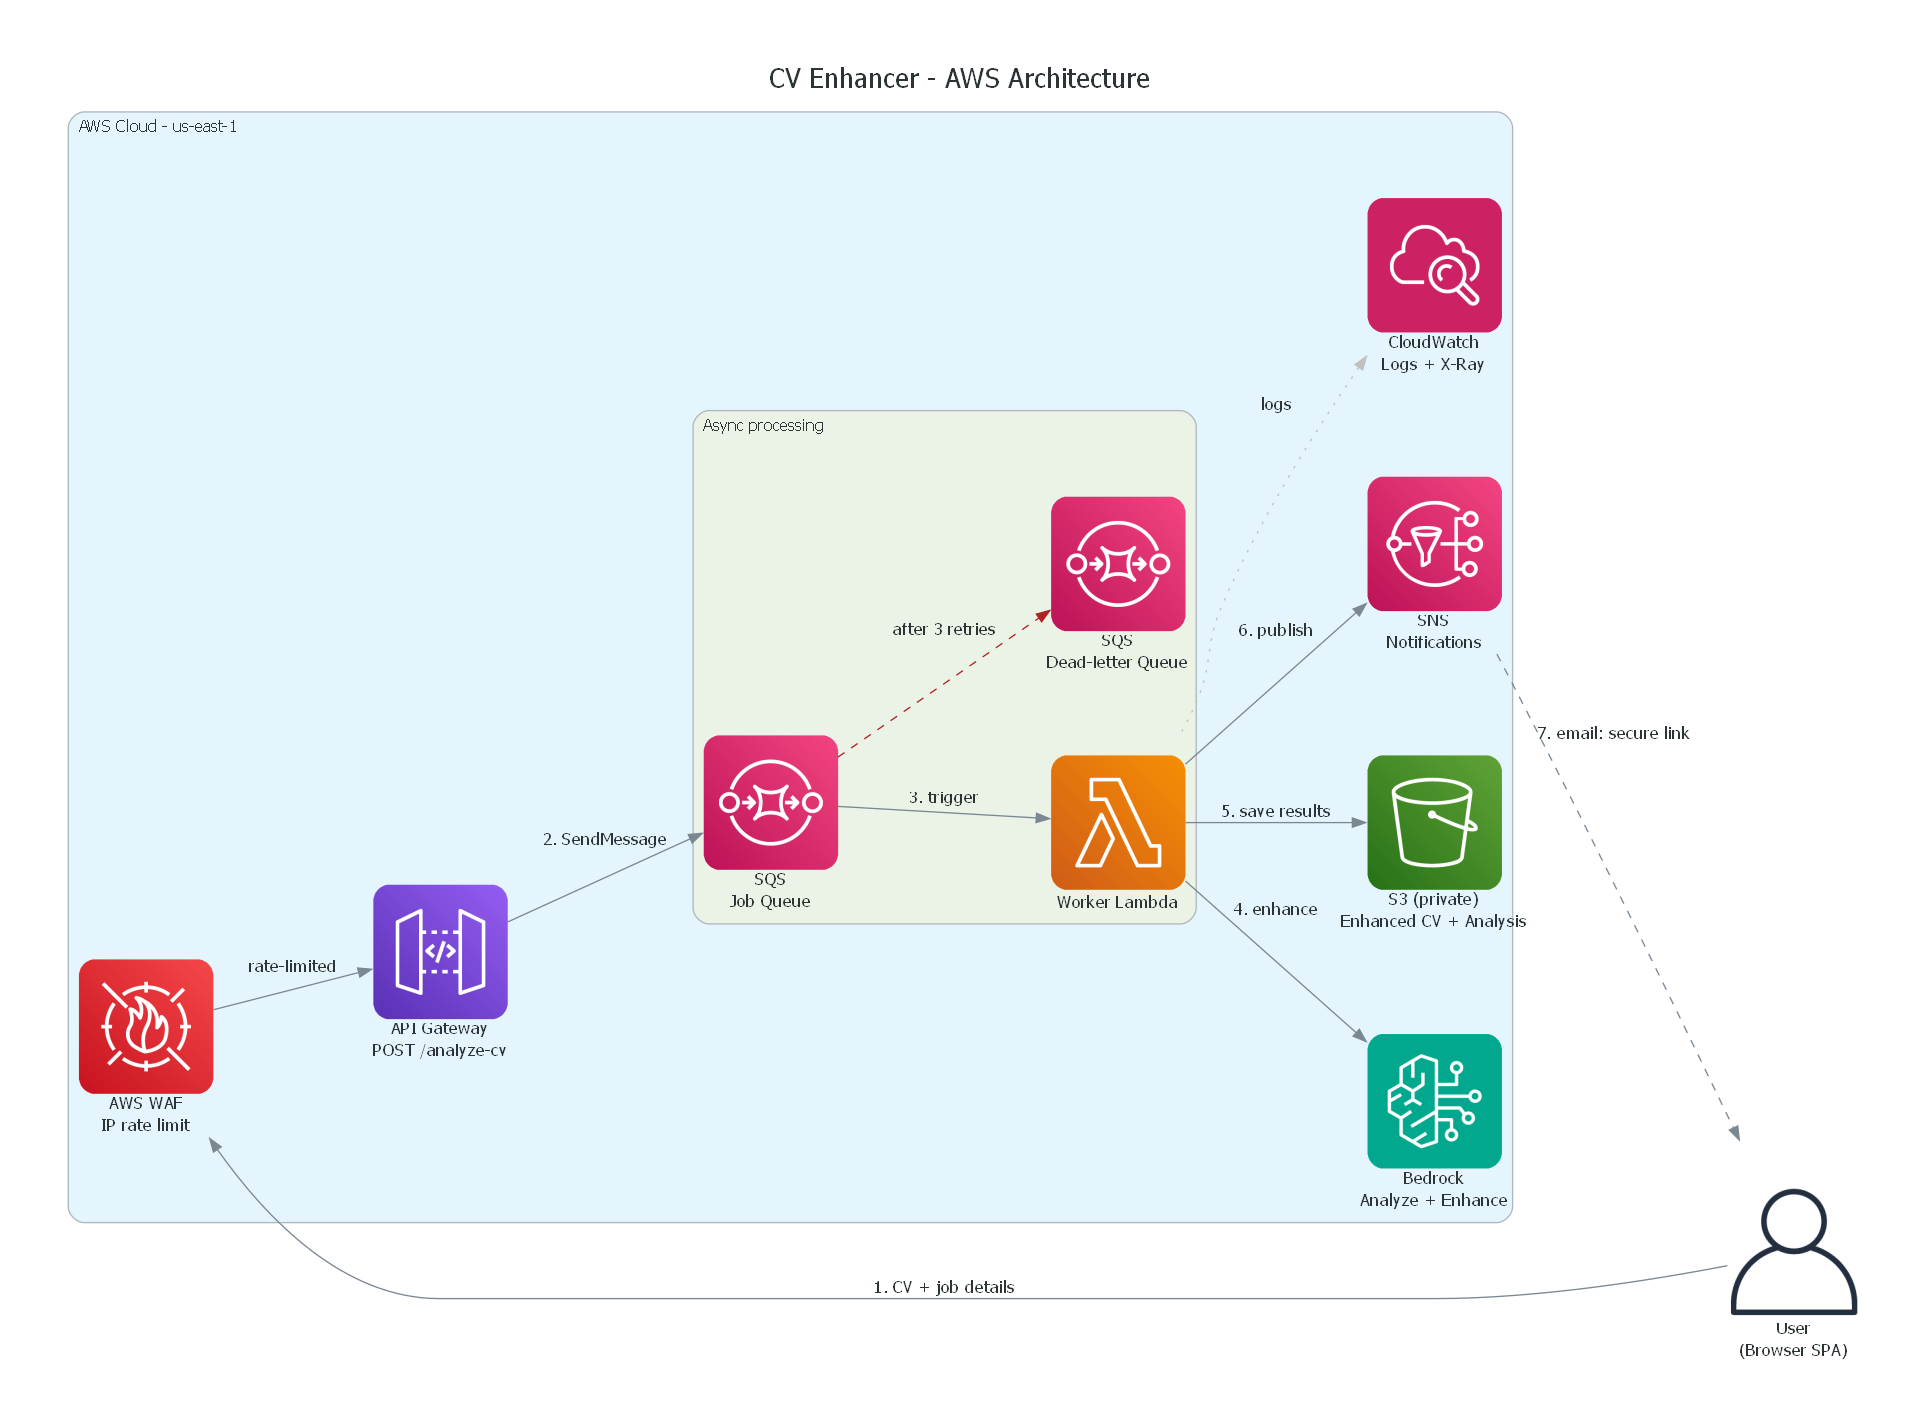
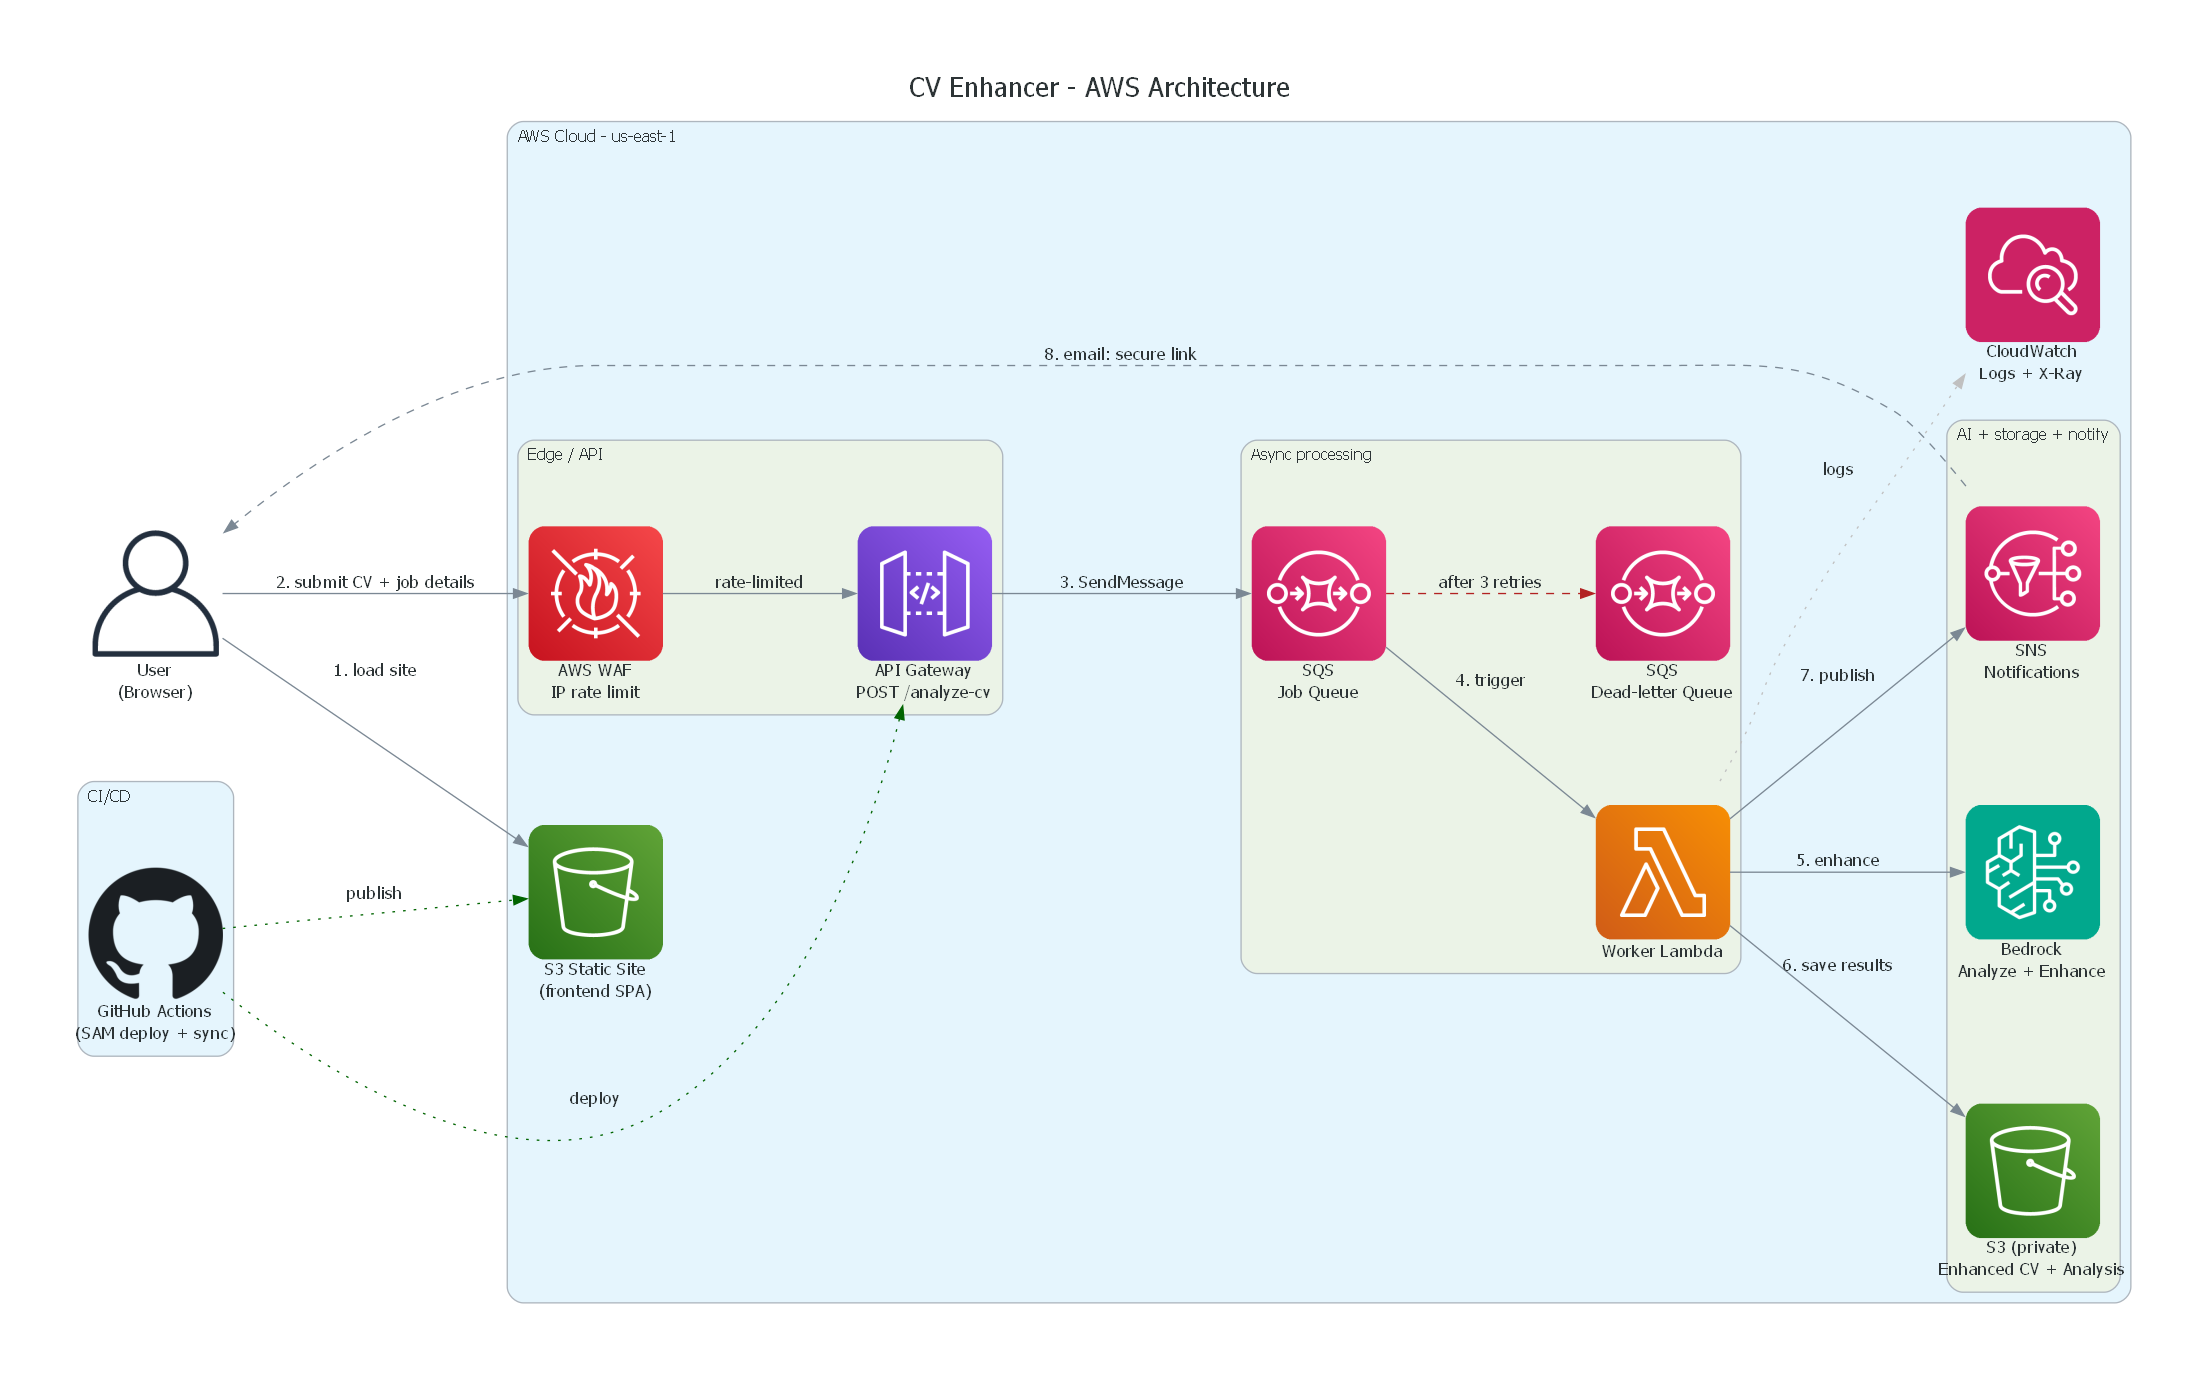
Enhance architecture diagram: add frontend S3 site, CI/CD, and grouped clusters

diff --git a/diagram/architecture.py b/diagram/architecture.py
@@ -21,12 +21,16 @@ from diagrams.aws.storage import SimpleStorageServiceS3
 from diagrams.aws.network import APIGateway
 from diagrams.aws.security import WAF
 from diagrams.aws.management import Cloudwatch
+from diagrams.aws.devtools import Codepipeline
 from diagrams.onprem.client import User
+from diagrams.onprem.vcs import Github
 
 graph_attr = {
     "fontsize": "20",
     "labelloc": "t",
-    "pad": "0.6",
+    "pad": "0.7",
+    "nodesep": "0.8",
+    "ranksep": "1.1",
     "splines": "spline",
     "bgcolor": "white",
 }
@@ -38,35 +42,45 @@ with Diagram(
     direction="LR",
     graph_attr=graph_attr,
 ):
-    user = User("User\n(Browser SPA)")
+    user = User("User\n(Browser)")
+
+    with Cluster("CI/CD"):
+        gh = Github("GitHub Actions\n(SAM deploy + sync)")
 
     with Cluster("AWS Cloud - us-east-1"):
-        waf = WAF("AWS WAF\nIP rate limit")
-        api = APIGateway("API Gateway\nPOST /analyze-cv")
+        site = SimpleStorageServiceS3("S3 Static Site\n(frontend SPA)")
+
+        with Cluster("Edge / API"):
+            waf = WAF("AWS WAF\nIP rate limit")
+            api = APIGateway("API Gateway\nPOST /analyze-cv")
 
         with Cluster("Async processing"):
             queue = SimpleQueueServiceSqs("SQS\nJob Queue")
             worker = Lambda("Worker Lambda")
             dlq = SimpleQueueServiceSqs("SQS\nDead-letter Queue")
 
-        bedrock = Bedrock("Bedrock\nAnalyze + Enhance")
-        results = SimpleStorageServiceS3("S3 (private)\nEnhanced CV + Analysis")
-        topic = SimpleNotificationServiceSns("SNS\nNotifications")
+        with Cluster("AI + storage + notify"):
+            bedrock = Bedrock("Bedrock\nAnalyze + Enhance")
+            results = SimpleStorageServiceS3("S3 (private)\nEnhanced CV + Analysis")
+            topic = SimpleNotificationServiceSns("SNS\nNotifications")
 
         logs = Cloudwatch("CloudWatch\nLogs + X-Ray")
 
-        # Main request flow
-        user >> Edge(label="1. CV + job details") >> waf
+        # Request flow
+        user >> Edge(label="1. load site") >> site
+        user >> Edge(label="2. submit CV + job details") >> waf
         waf >> Edge(label="rate-limited") >> api
-        api >> Edge(label="2. SendMessage") >> queue
-        queue >> Edge(label="3. trigger") >> worker
-        worker >> Edge(label="4. enhance") >> bedrock
-        worker >> Edge(label="5. save results") >> results
-        worker >> Edge(label="6. publish") >> topic
-        topic >> Edge(label="7. email: secure link", style="dashed") >> user
+        api >> Edge(label="3. SendMessage") >> queue
+        queue >> Edge(label="4. trigger") >> worker
+        worker >> Edge(label="5. enhance") >> bedrock
+        worker >> Edge(label="6. save results") >> results
+        worker >> Edge(label="7. publish") >> topic
+        topic >> Edge(label="8. email: secure link", style="dashed") >> user
 
-        # Failure path
+        # Failure path + observability
         queue >> Edge(label="after 3 retries", style="dashed", color="firebrick") >> dlq
-
-        # Observability
         worker >> Edge(style="dotted", color="gray", label="logs") >> logs
+
+    # CI/CD deploys the stack and publishes the frontend
+    gh >> Edge(style="dotted", color="darkgreen", label="deploy") >> api
+    gh >> Edge(style="dotted", color="darkgreen", label="publish") >> site
